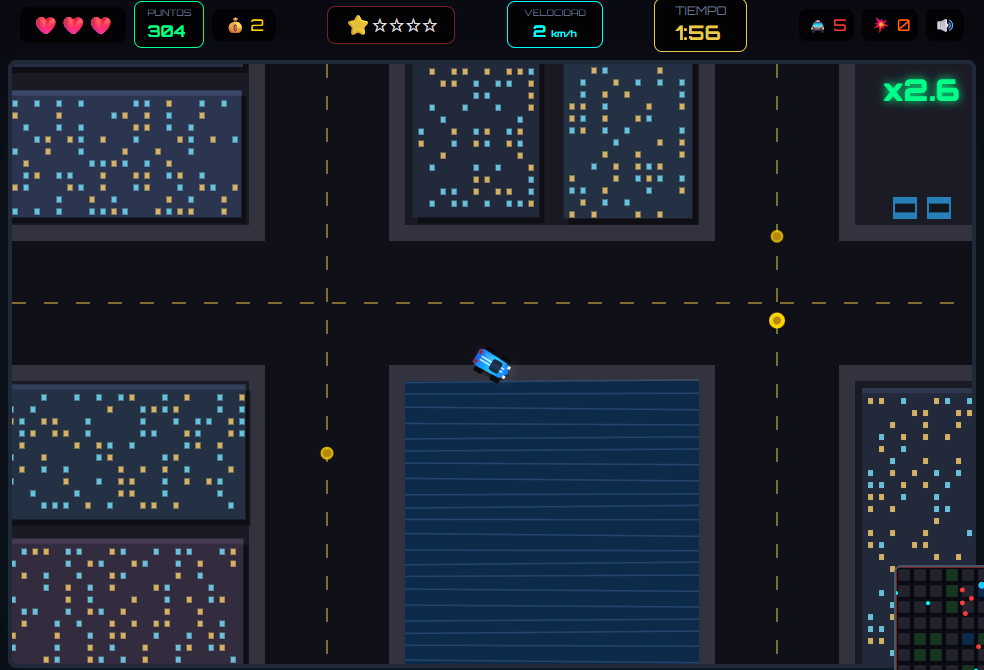
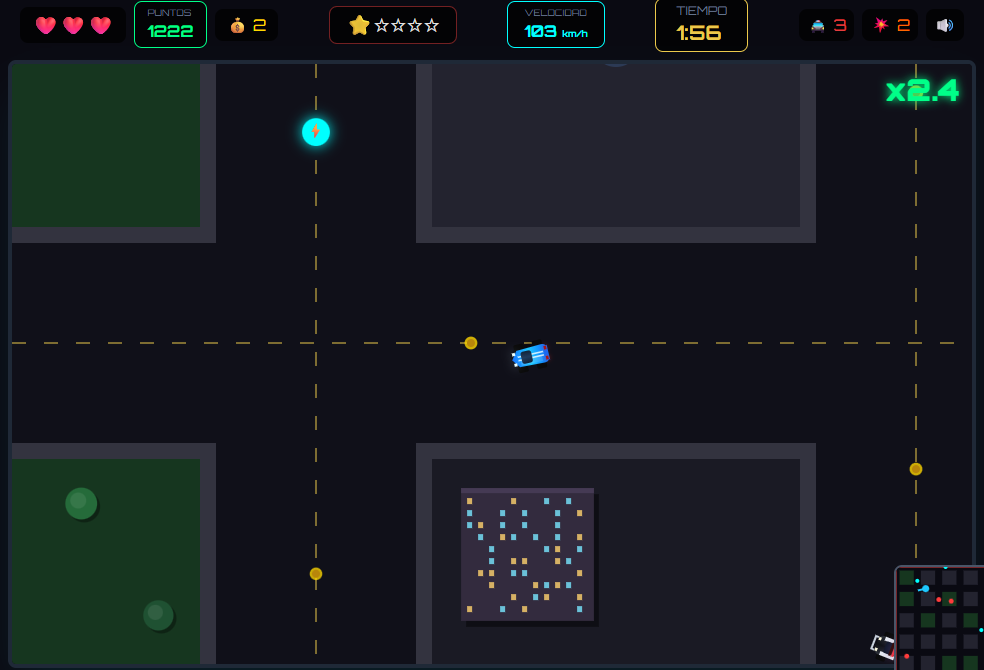
fix(map): widen avenues and set buildings back to stop constant crashes
The city was too cramped — 124px roads with buildings only 16px off the
curb, so turning or driving fast clipped a building almost every block.

- Avenues widened (124->200px) and bigger sidewalk setback (16->34px),
  roughly doubling the usable corridor for the car
- Bigger blocks (450->600) with more building margin (gap 10->22, pad up
  to 20) so footprints sit well inside each lot
- Fewer/smaller solid obstacles: building lots 58%->46%, more drivable
  parks/plazas, sparser trees, fewer parked cars
- City grid now tiles the whole map (no empty edge strip)
- Gentler wall collision: only real impacts penalize speed; grazes barely
  slow you (0.93) instead of the old hard 0.4 stop
- Refreshed gameplay screenshot to show the more open city

diff --git a/client/src/game/city.ts b/client/src/game/city.ts
@@ -4,9 +4,9 @@
 // ============================================================================
 
 export const MAP = 3600;
-export const BLOCK = 450; // separación entre ejes de avenida
-export const ROAD_W = 124; // ancho de calzada
-export const SIDEWALK = 16;
+export const BLOCK = 600; // separación entre ejes de avenida (manzanas amplias)
+export const ROAD_W = 200; // ancho de calzada — avenidas anchas, menos choques
+export const SIDEWALK = 34; // acera transitable que aleja los edificios de la calle
 
 export type SolidKind = "building" | "tree" | "car" | "fountain" | "water";
 
@@ -64,8 +64,8 @@ export function buildCity(seed: number): City {
   const rnd = mulberry32(seed);
   const lots: Lot[] = [];
   const solids: Solid[] = [];
-  const cols = Math.round(MAP / BLOCK); // ejes por lado
-  const blocks = cols - 1;
+  const cols = Math.round(MAP / BLOCK); // manzanas por lado (las avenidas tilean todo el mapa)
+  const blocks = cols;
 
   // manzana central reservada para el spawn del jugador (plaza despejada)
   const centerBlock = Math.floor(blocks / 2);
@@ -102,25 +102,25 @@ export function buildCity(seed: number): City {
         continue;
       }
 
-      if (roll < 0.58) {
+      if (roll < 0.46) {
         // ---- manzana de edificios ----
         ground = "concrete";
         lots.push({ x: x0, y: y0, w, h, ground });
-        // subdividir el lote en 1..4 edificios
+        // subdividir el lote en 1..4 edificios, con bastante margen
         const splitsX = 1 + Math.floor(rnd() * 2);
         const splitsY = 1 + Math.floor(rnd() * 2);
-        const gap = 10;
+        const gap = 22;
         const cellW = (iw - gap * (splitsX - 1)) / splitsX;
         const cellH = (ih - gap * (splitsY - 1)) / splitsY;
         for (let a = 0; a < splitsX; a++) {
           for (let b = 0; b < splitsY; b++) {
-            if (rnd() < 0.12) continue; // hueco ocasional (patio)
-            const pad = 2 + rnd() * 6;
+            if (rnd() < 0.15) continue; // hueco ocasional (patio)
+            const pad = 8 + rnd() * 12; // mayor retiro del borde de la manzana
             const bx = ix + a * (cellW + gap) + pad;
             const by = iy + b * (cellH + gap) + pad;
             const bw = cellW - pad * 2;
             const bh = cellH - pad * 2;
-            if (bw < 26 || bh < 26) continue;
+            if (bw < 30 || bh < 30) continue;
             const base = BUILDING_COLORS[Math.floor(rnd() * BUILDING_COLORS.length)];
             solids.push({
               x: bx,
@@ -134,13 +134,13 @@ export function buildCity(seed: number): City {
             });
           }
         }
-      } else if (roll < 0.76) {
-        // ---- parque ----
+      } else if (roll < 0.7) {
+        // ---- parque (transitable, pocos árboles dispersos) ----
         ground = "grass";
         lots.push({ x: x0, y: y0, w, h, ground });
-        const trees = 3 + Math.floor(rnd() * 5);
+        const trees = 2 + Math.floor(rnd() * 3);
         for (let n = 0; n < trees; n++) {
-          const tw = 26 + rnd() * 16;
+          const tw = 24 + rnd() * 12;
           solids.push({
             x: ix + rnd() * (iw - tw),
             y: iy + rnd() * (ih - tw),
@@ -150,7 +150,7 @@ export function buildCity(seed: number): City {
             color: rnd() < 0.5 ? "#1f5132" : "#256b3a",
           });
         }
-      } else if (roll < 0.9) {
+      } else if (roll < 0.85) {
         // ---- estacionamiento ----
         ground = "parking";
         lots.push({ x: x0, y: y0, w, h, ground });
@@ -159,7 +159,7 @@ export function buildCity(seed: number): City {
         const cols2 = Math.floor(iw / (cw + 4));
         for (let r = 0; r < rows; r++) {
           for (let c = 0; c < cols2; c++) {
-            if (rnd() < 0.45) continue;
+            if (rnd() < 0.55) continue;
             solids.push({
               x: ix + c * (cw + 4) + 4,
               y: iy + (r === 0 ? 6 : ih - 22 - 6),
@@ -170,6 +170,18 @@ export function buildCity(seed: number): City {
             });
           }
         }
+      } else if (roll < 0.94) {
+        // ---- plaza abierta (transitable, solo una fuente al centro) ----
+        ground = "plaza";
+        lots.push({ x: x0, y: y0, w, h, ground });
+        solids.push({
+          x: ix + iw / 2 - 24,
+          y: iy + ih / 2 - 24,
+          w: 48,
+          h: 48,
+          kind: "fountain",
+          color: "#3b4a6b",
+        });
       } else {
         // ---- lago / agua (obstáculo grande) ----
         ground = "water";
@@ -220,10 +232,10 @@ export function onRoad(x: number, y: number): boolean {
 export function randomRoadPoint(rnd: () => number): { x: number; y: number } {
   const cols = Math.round(MAP / BLOCK);
   if (rnd() < 0.5) {
-    const eje = Math.floor(rnd() * cols) * BLOCK;
+    const eje = Math.floor(rnd() * (cols + 1)) * BLOCK;
     return { x: eje, y: ROAD_W + rnd() * (MAP - ROAD_W * 2) };
   } else {
-    const eje = Math.floor(rnd() * cols) * BLOCK;
+    const eje = Math.floor(rnd() * (cols + 1)) * BLOCK;
     return { x: ROAD_W + rnd() * (MAP - ROAD_W * 2), y: eje };
   }
 }

diff --git a/client/src/game/engine.ts b/client/src/game/engine.ts
@@ -315,12 +315,12 @@ export function simulate(g: Game, dt: number, keys: Set<string>, audio: GameAudi
   if (res.hit) {
     const dot = mvx * res.nx + mvy * res.ny;
     const impact = Math.max(0, -dot);
-    if (impact > 5 && g.invincible <= 0) {
+    if (impact > 7 && g.invincible <= 0) {
       audio.play("crash");
-      g.shake = Math.max(g.shake, 180);
-      addParticles(g, nx, ny, 8, "#ffcc44", "spark", impact * 0.4);
+      g.shake = Math.max(g.shake, 110);
+      addParticles(g, nx, ny, 6, "#ffcc44", "spark", impact * 0.35);
     }
-    p.speed *= impact > 5 ? 0.4 : 0.82; // pierde velocidad al rozar
+    p.speed *= impact > 7 ? 0.6 : 0.93; // roces apenas frenan; solo golpes fuertes penalizan
   }
   // límites del mapa
   if (nx < R) { nx = R; p.speed *= 0.5; }